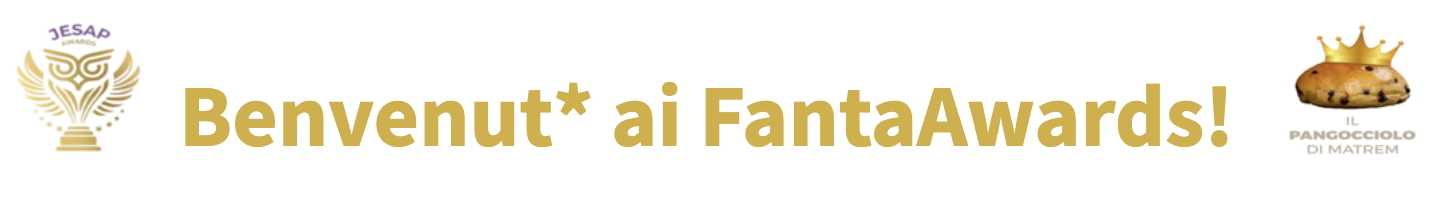
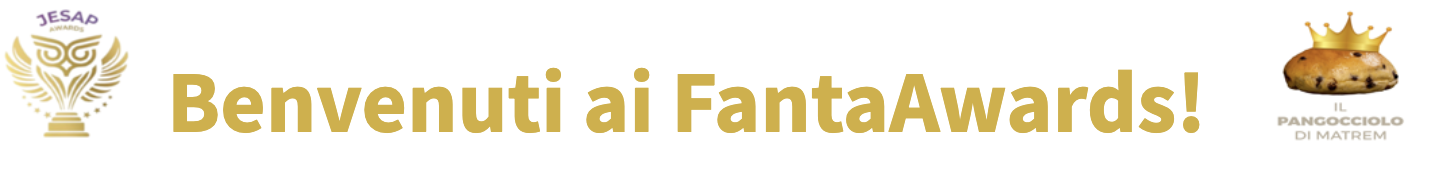
up

Changed region(s): [[0.1231, 0.3779, 0.8615, 0.7849], [0.8923, 0.0872, 0.9846, 0.814], [0.0, 0.0581, 0.1231, 0.814]]

diff --git a/prova.py b/prova.py
@@ -107,12 +107,14 @@ col1, col2, col3 = st.columns([1,7,1])
     
 
 # with col2:
-#     st.markdown('<h1><span style="color: #D4AF37;">Benvenut* ai FantaAwards!</span></h1>', unsafe_allow_html=True)
+#     st.markdown('<h1><span style="color: #D4AF37;">Benvenuti ai FantaAwards!</span></h1>', unsafe_allow_html=True)
 
 # with col3:
 #     image = Image.open("pangocciolo.png")
 #     new_image = image.resize((100, 100))
 #     st.image(new_image)
+
+
 target_time = datetime(2024, 1, 20, 21, 0, 0)
 current_time = datetime.now()
 time_remaining = target_time - current_time
